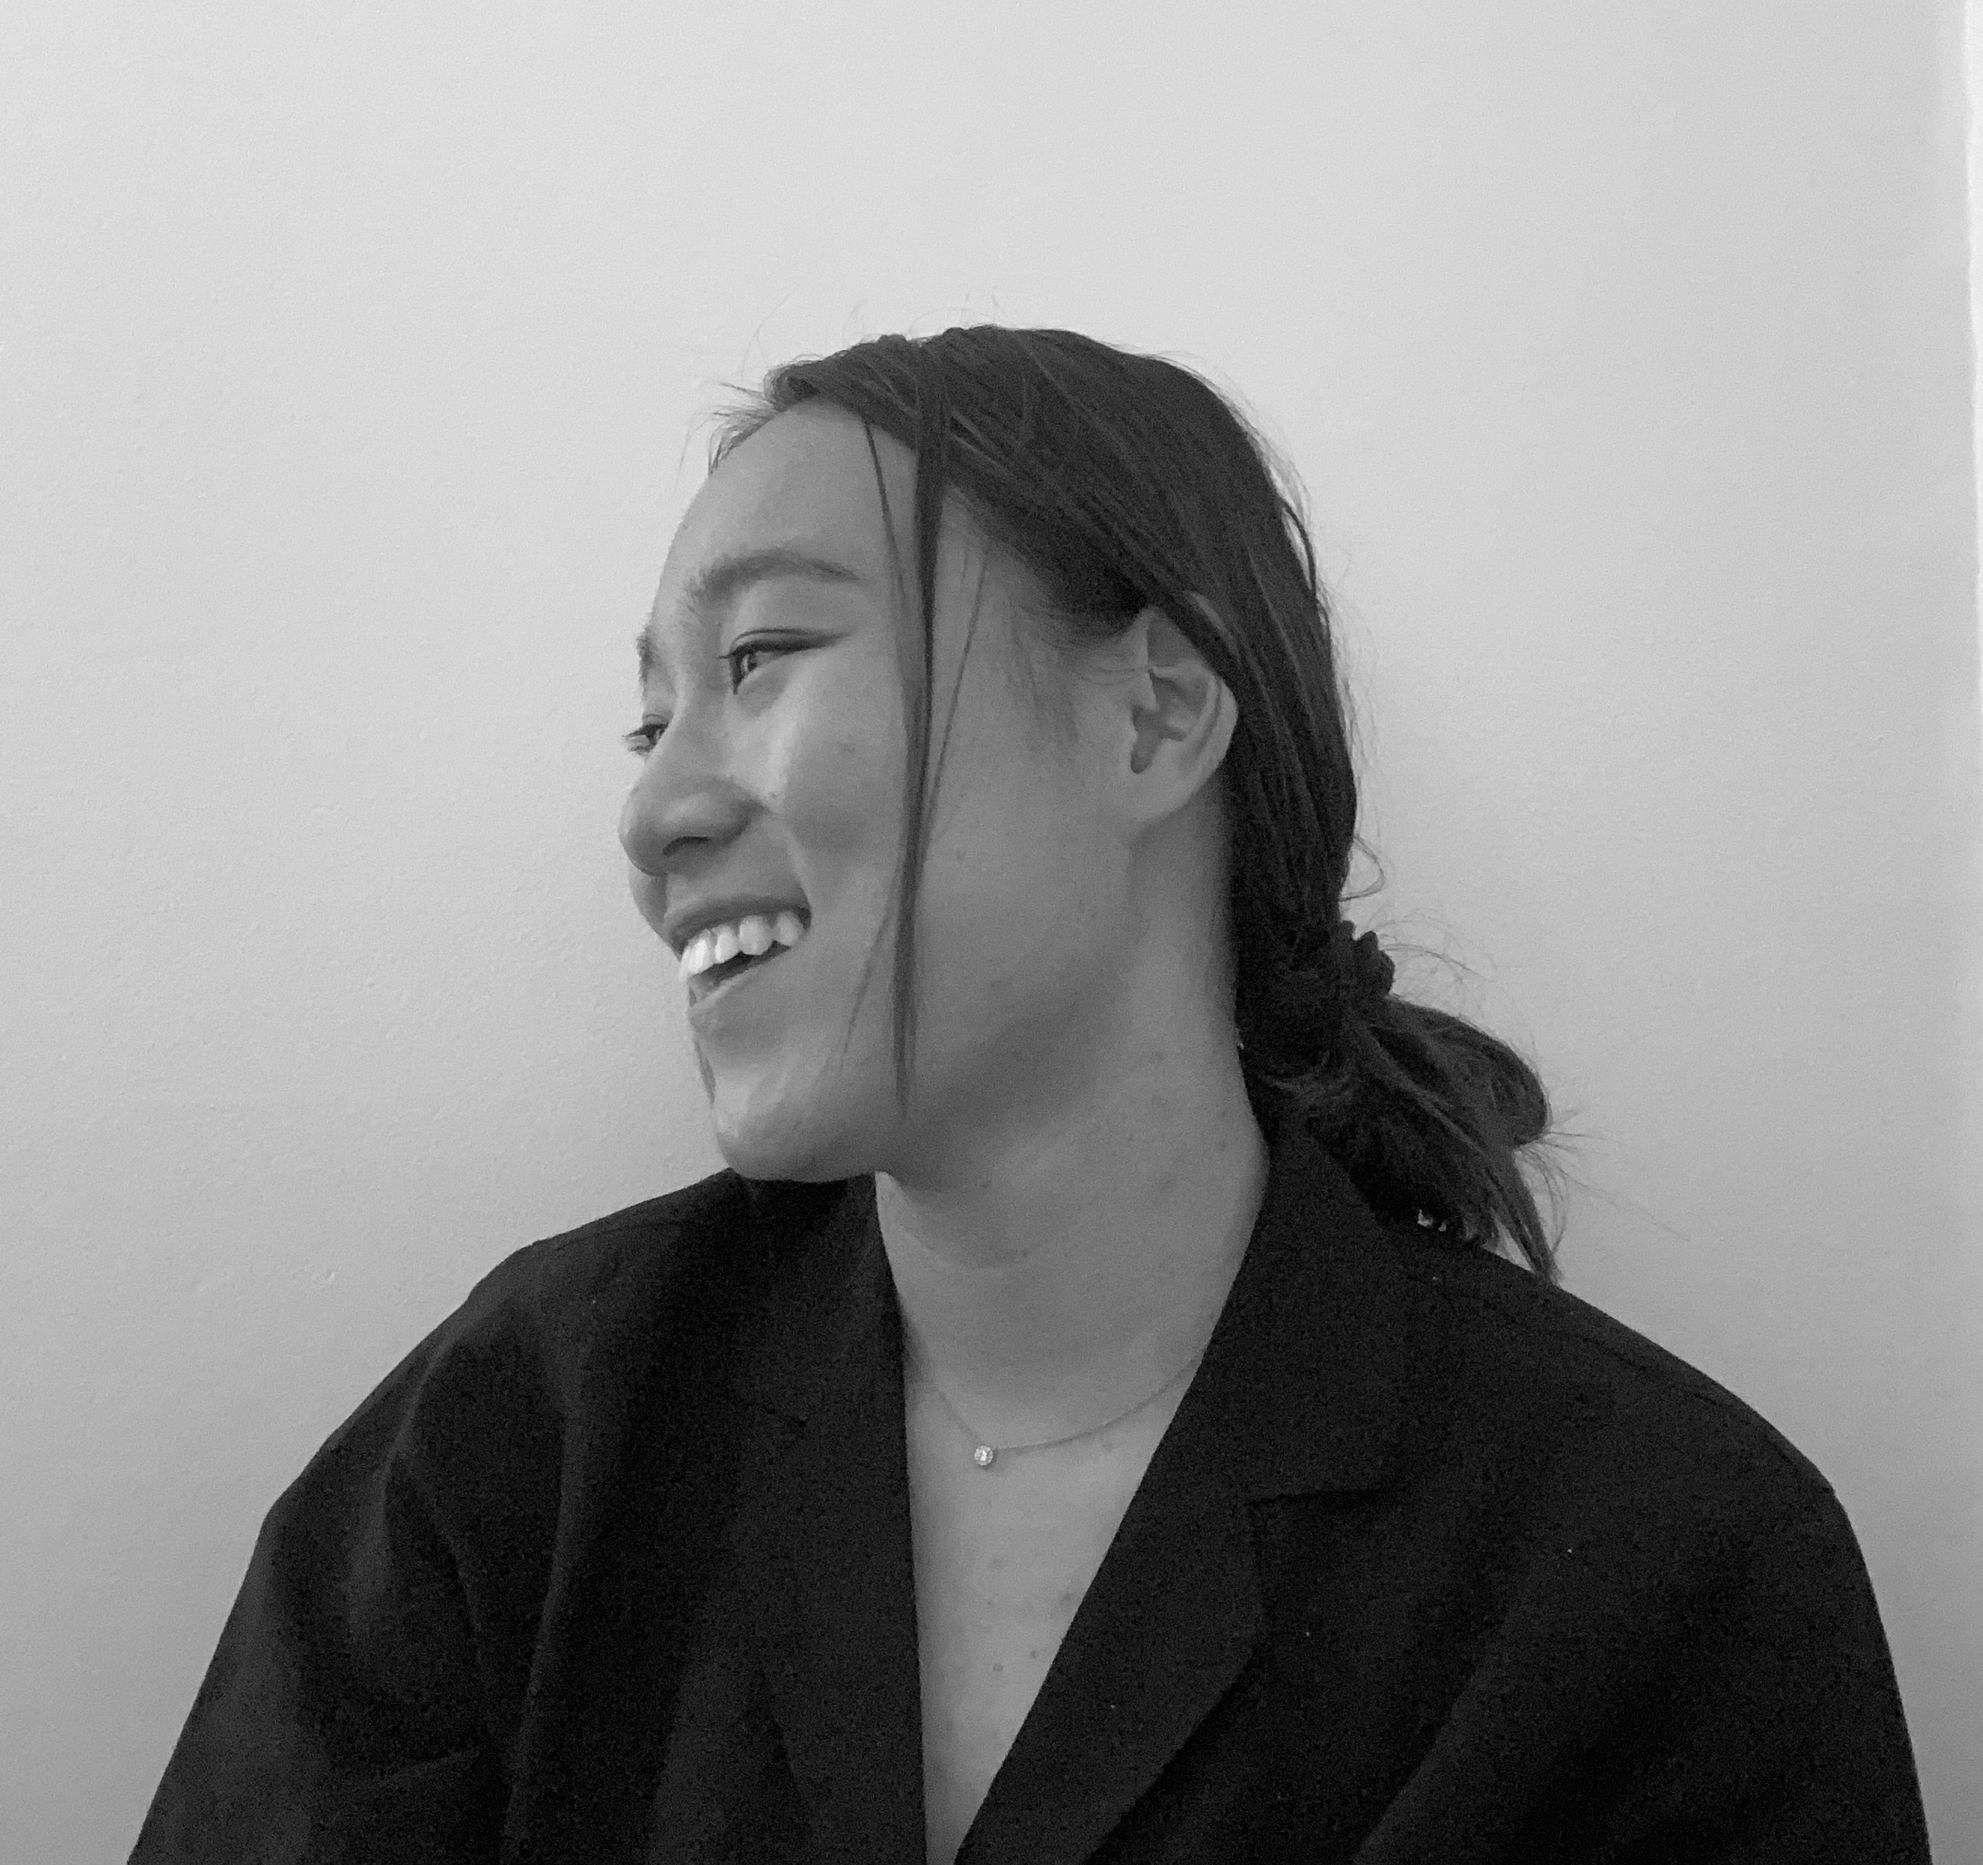
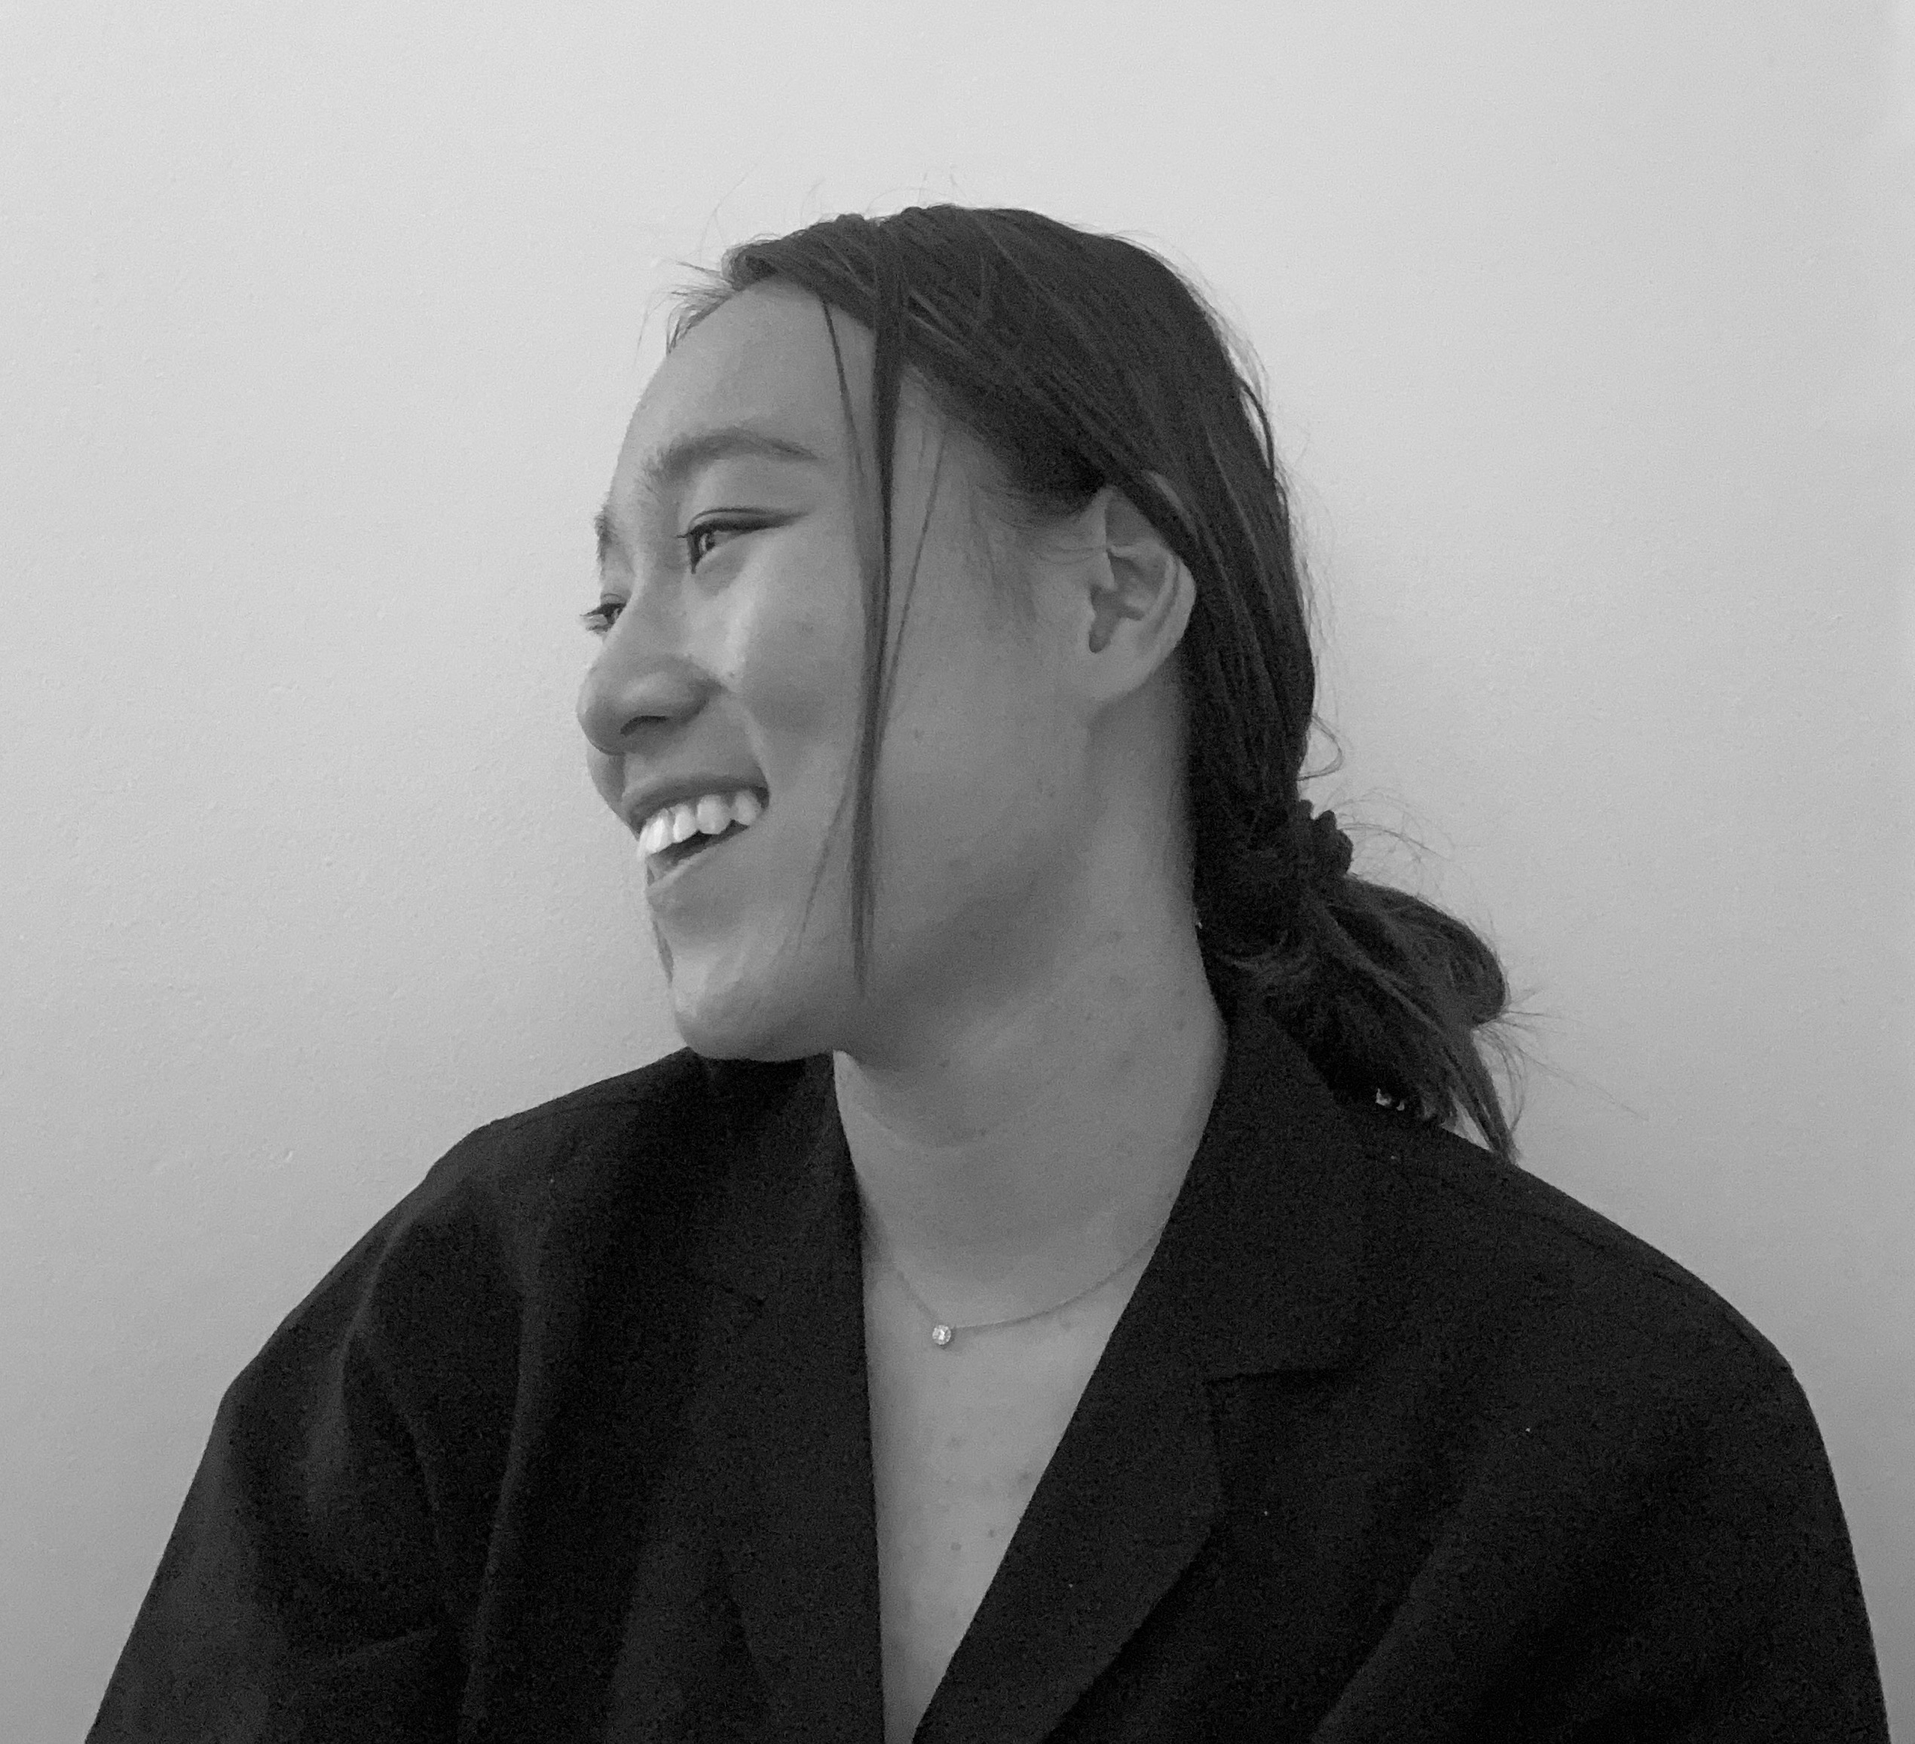
test portrait reduced size

diff --git a/index.html b/index.html
@@ -39,7 +39,7 @@
     </div>
     <section class="hero">
       <div class="container">
-          <img src="../static/images/portraitsidebw.jpeg" alt="picture of linda" class="sc-cTkwdZ fFvlhF">
+          <img src="../static/images/portraitsidebw.jpeg" alt="picture of linda" class="sc-cTkwdZ fFvlhF" width="300" height="300">>
       </div>
     </section>
 
